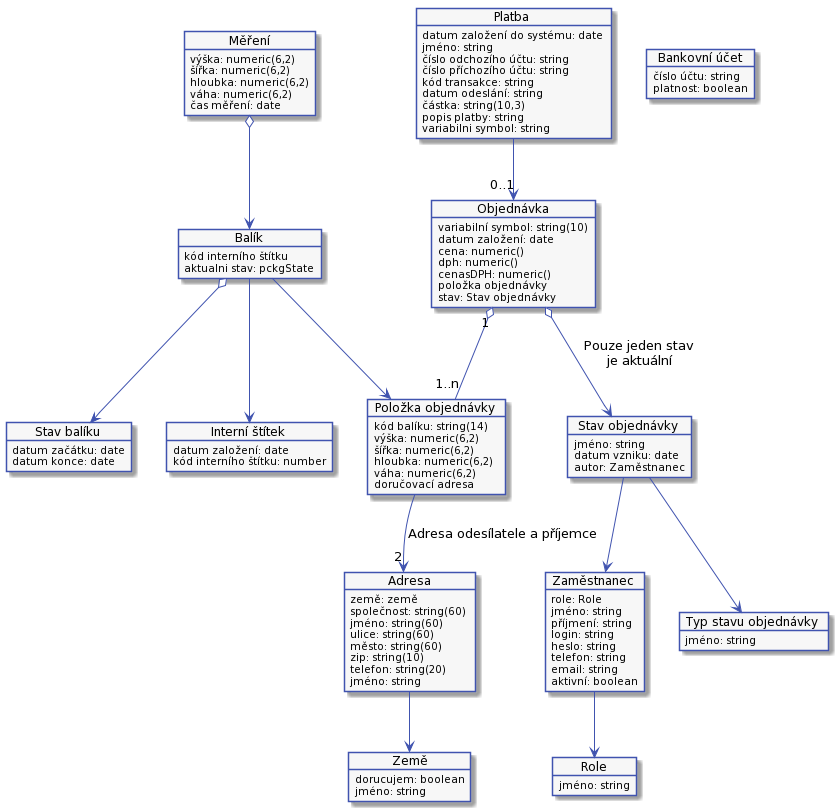
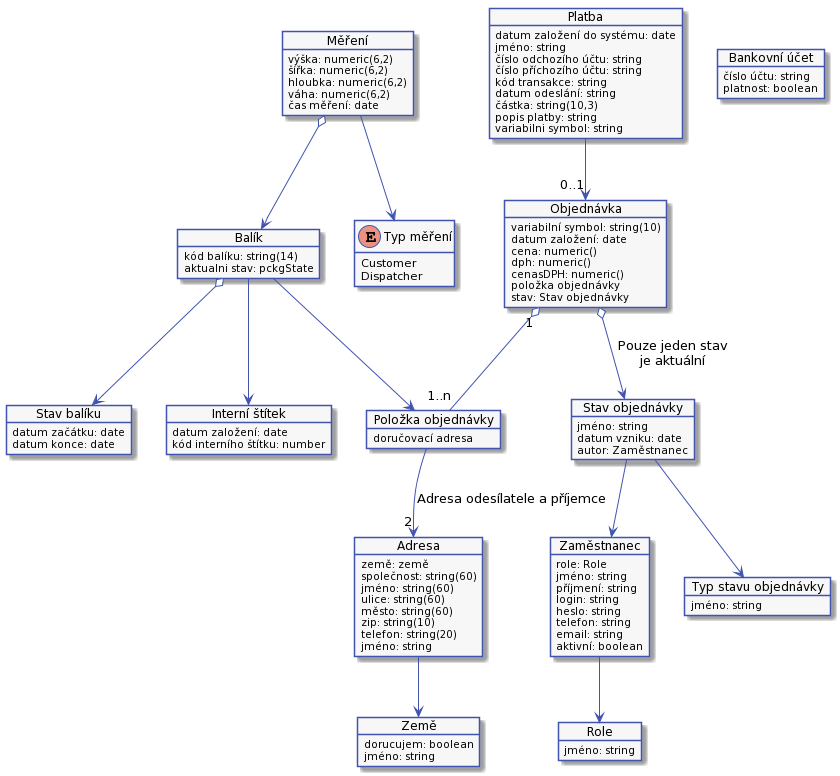
Deployed 3f4f421 with MkDocs version: 1.1

diff --git a/architecture/index.html b/architecture/index.html
@@ -380,6 +380,13 @@
       <ul class="md-nav__list">
         
           <li class="md-nav__item">
+  <a href="#mereni" class="md-nav__link">
+    Měření
+  </a>
+  
+</li>
+        
+          <li class="md-nav__item">
   <a href="#objednavka" class="md-nav__link">
     Objednávka
   </a>
@@ -387,8 +394,15 @@
 </li>
         
           <li class="md-nav__item">
-  <a href="#balik" class="md-nav__link">
-    Balík
+  <a href="#udalosti" class="md-nav__link">
+    Události
+  </a>
+  
+</li>
+        
+          <li class="md-nav__item">
+  <a href="#balik-a-jeho-stavy" class="md-nav__link">
+    Balík a jeho stavy
   </a>
   
     <nav class="md-nav">
@@ -593,6 +607,13 @@
       <ul class="md-nav__list">
         
           <li class="md-nav__item">
+  <a href="#mereni" class="md-nav__link">
+    Měření
+  </a>
+  
+</li>
+        
+          <li class="md-nav__item">
   <a href="#objednavka" class="md-nav__link">
     Objednávka
   </a>
@@ -600,8 +621,15 @@
 </li>
         
           <li class="md-nav__item">
-  <a href="#balik" class="md-nav__link">
-    Balík
+  <a href="#udalosti" class="md-nav__link">
+    Události
+  </a>
+  
+</li>
+        
+          <li class="md-nav__item">
+  <a href="#balik-a-jeho-stavy" class="md-nav__link">
+    Balík a jeho stavy
   </a>
   
     <nav class="md-nav">
@@ -714,8 +742,28 @@
 <p>Zde budou popsány vztajy mezi objekty a základní set attributů.</p>
 <p>Vztahy mezi základními objekty budou vypadat takto:
 <img alt="Přehled" src="../diagrams/out/arch-01.png" title="Přehled" /></p>
+<h4 id="mereni">Měření</h4>
+<p>Měření balíku děláme ve dvou prípadech. V prvním ho prvede zákazník ppři zadávání objednávky a v druhém ho provádí dispečer v interních procesech.</p>
+<p><strong>TODO: Jedná se v případě měření zákazníka z dispečera o stejná data?</strong></p>
 <h3 id="objednavka">Objednávka</h3>
-<h3 id="balik">Balík</h3>
+<p><strong>TODO</strong></p>
+<h3 id="udalosti">Události</h3>
+<p>Událost nese informaci o tom, co se v daném okamžiku s balíkem stalo. Událost je jednorázový objekt, který se pořídí a dál nemění. Chceme ho zachovat i v případě, že původní objekt zanikne, nebo se upraví. Obsahuje attributy:</p>
+<ul>
+<li>O jakou událost se jedná, příklady jsou na obrázku níž.</li>
+<li>Odkaz na balík, kterého se událost týká.</li>
+<li>Kdo událost vykonal. To můze být libovolný zaměstnanec, zákazník nebo to v budoucnu může být nějaký proces.</li>
+<li>Datum vzniku události.</li>
+<li>Odkaz na sledovaný objekt nebo atributy, které se k události pojí. Sledovaný objek je objekt, kterého se událost týká, například připárovaný balík.</li>
+</ul>
+<p>V některých případech by událost měla být samostatný objekt a sledovaný objekt druhý samostatný objekt. Událost měla být samostatně uložená od sledovaného objektu Pokud událost splní nekré z následujících bodů: </p>
+<ul>
+<li>Sledovaný objekt může být odstraněn nebo změněn, přitom stále potřebujeme znát původní hodnoty.</li>
+<li>Během existence sledovaného objektu můžeme potřebovat víc událostí.</li>
+</ul>
+<p>Návrh vztahů mezi objekty:</p>
+<p><img alt="Události" src="../diagrams/out/arch-05.png" title="Události" /></p>
+<h3 id="balik-a-jeho-stavy">Balík a jeho stavy</h3>
 <p>U balíku se uchovává:</p>
 <ul>
 <li>Stav balíku - ze stavů je možné vyčíst, co se dějě a řídit, co se má stát.</li>
